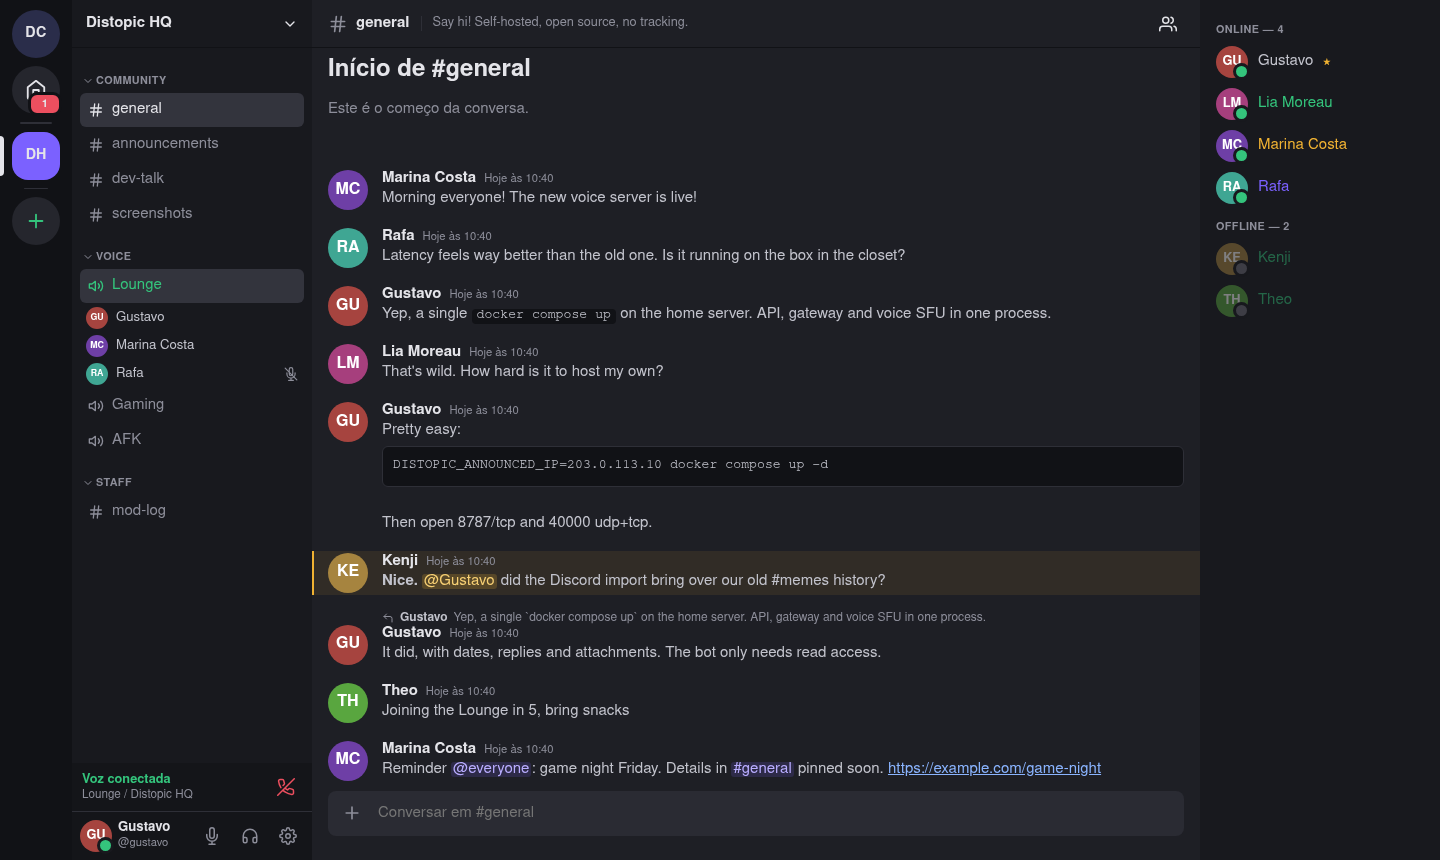
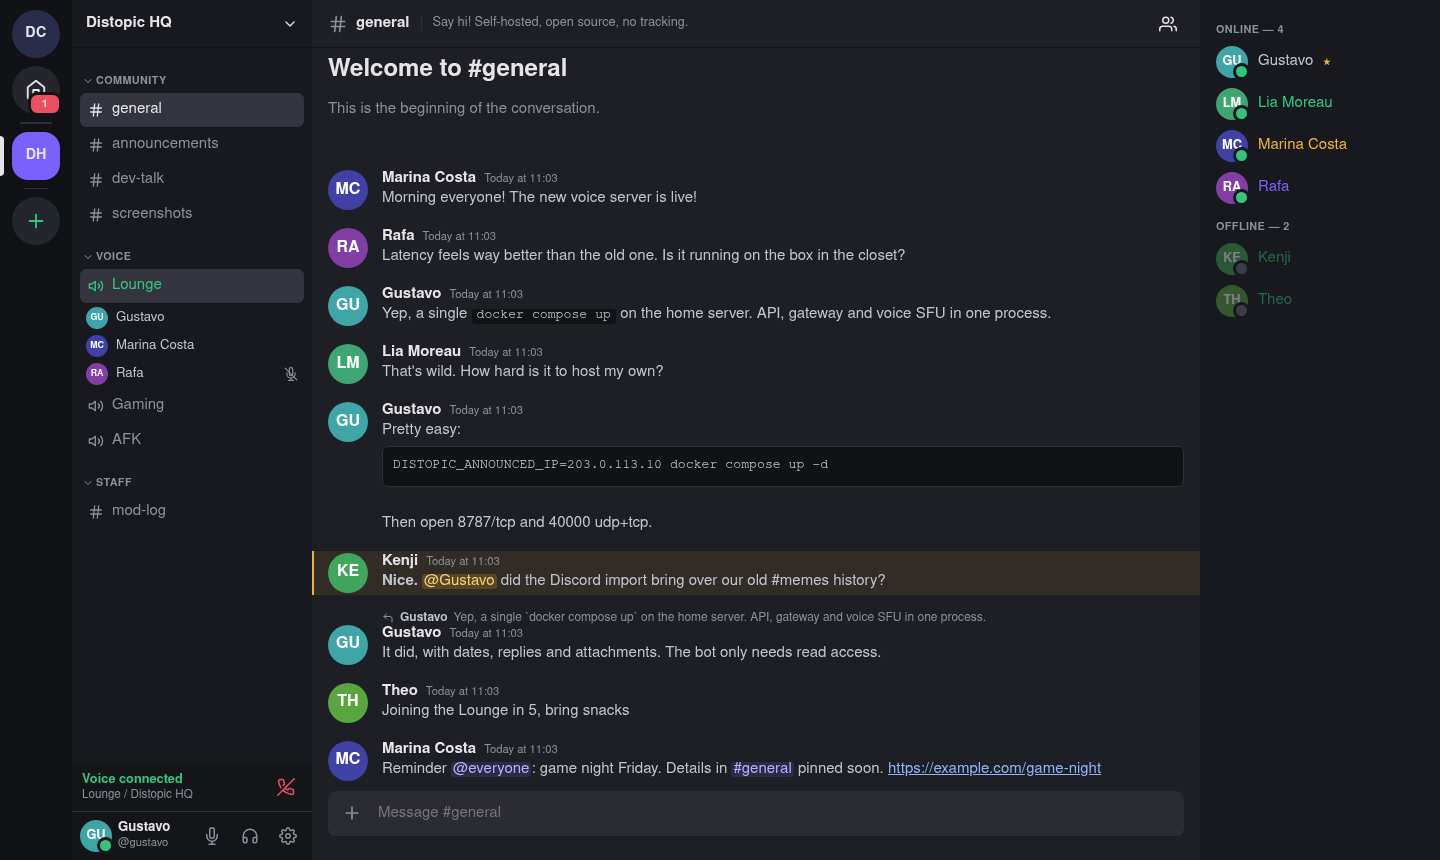
docs: English screenshots and host-only setup note

diff --git a/README.md b/README.md
@@ -15,6 +15,8 @@
 
 <img src="docs/screenshots/chat-and-voice.png" alt="Distopic: text channels, voice channel with connected members, member list with roles" width="860">
 
+<sub>Screenshots show the English labels planned for localization; the current client UI is in Portuguese (pt-BR).</sub>
+
 </div>
 
 ## Why Distopic?
@@ -42,6 +44,10 @@ community gradually instead of all at once.
 | **Ops** | One process, SQLite storage, single UDP/TCP media port, Docker image, no external services |
 
 ## Quick start
+
+> **Only the host runs this.** One person sets up the server, once. Everyone
+> else just installs the [client](https://github.com/GustavoHSCruz/distopic-client)
+> and joins with the server address and an invite code, like a TeamSpeak server.
 
 ### Docker (recommended)
 

diff --git a/README.pt-BR.md b/README.pt-BR.md
@@ -38,6 +38,10 @@ dá para migrar aos poucos.
 
 ## Começando
 
+> **Só quem hospeda faz isso.** Uma pessoa sobe o servidor, uma vez. O resto
+> instala apenas o [client](https://github.com/GustavoHSCruz/distopic-client)
+> e entra com o endereço e um convite, como num servidor TeamSpeak.
+
 ```bash
 git clone https://github.com/GustavoHSCruz/distopic-server.git
 cd distopic-server
